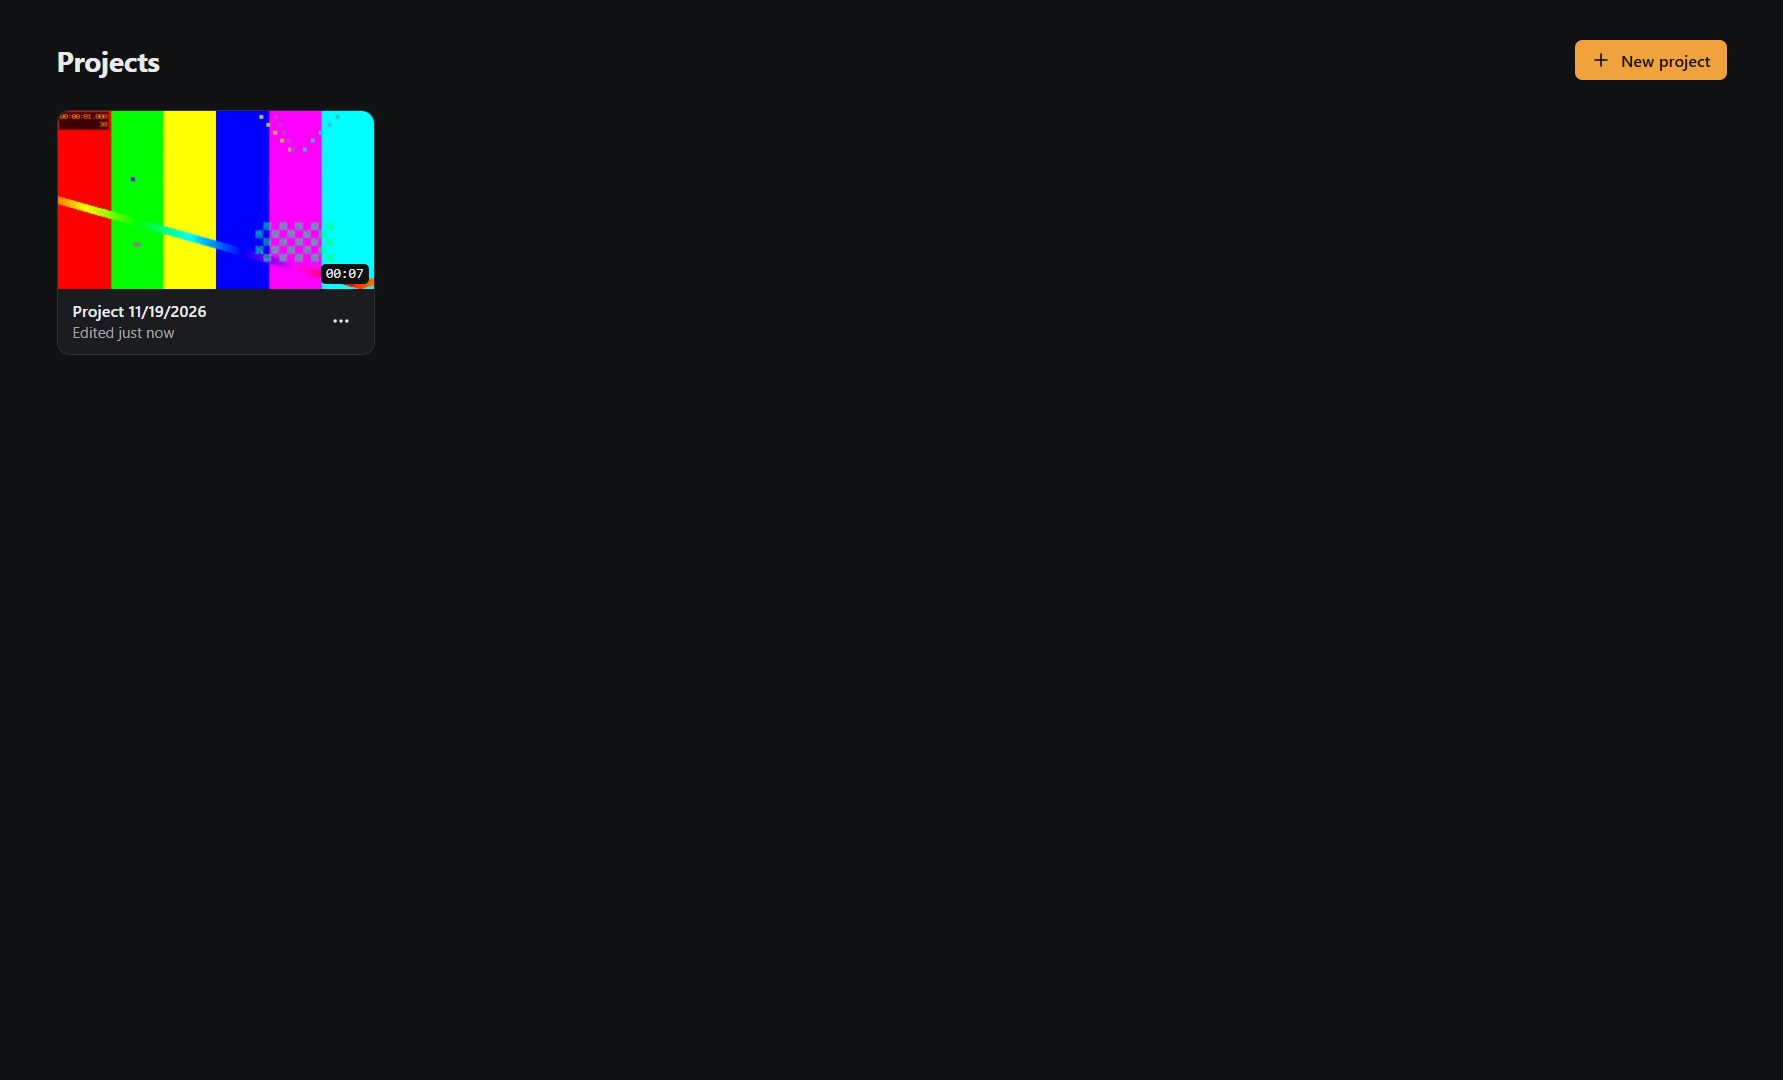
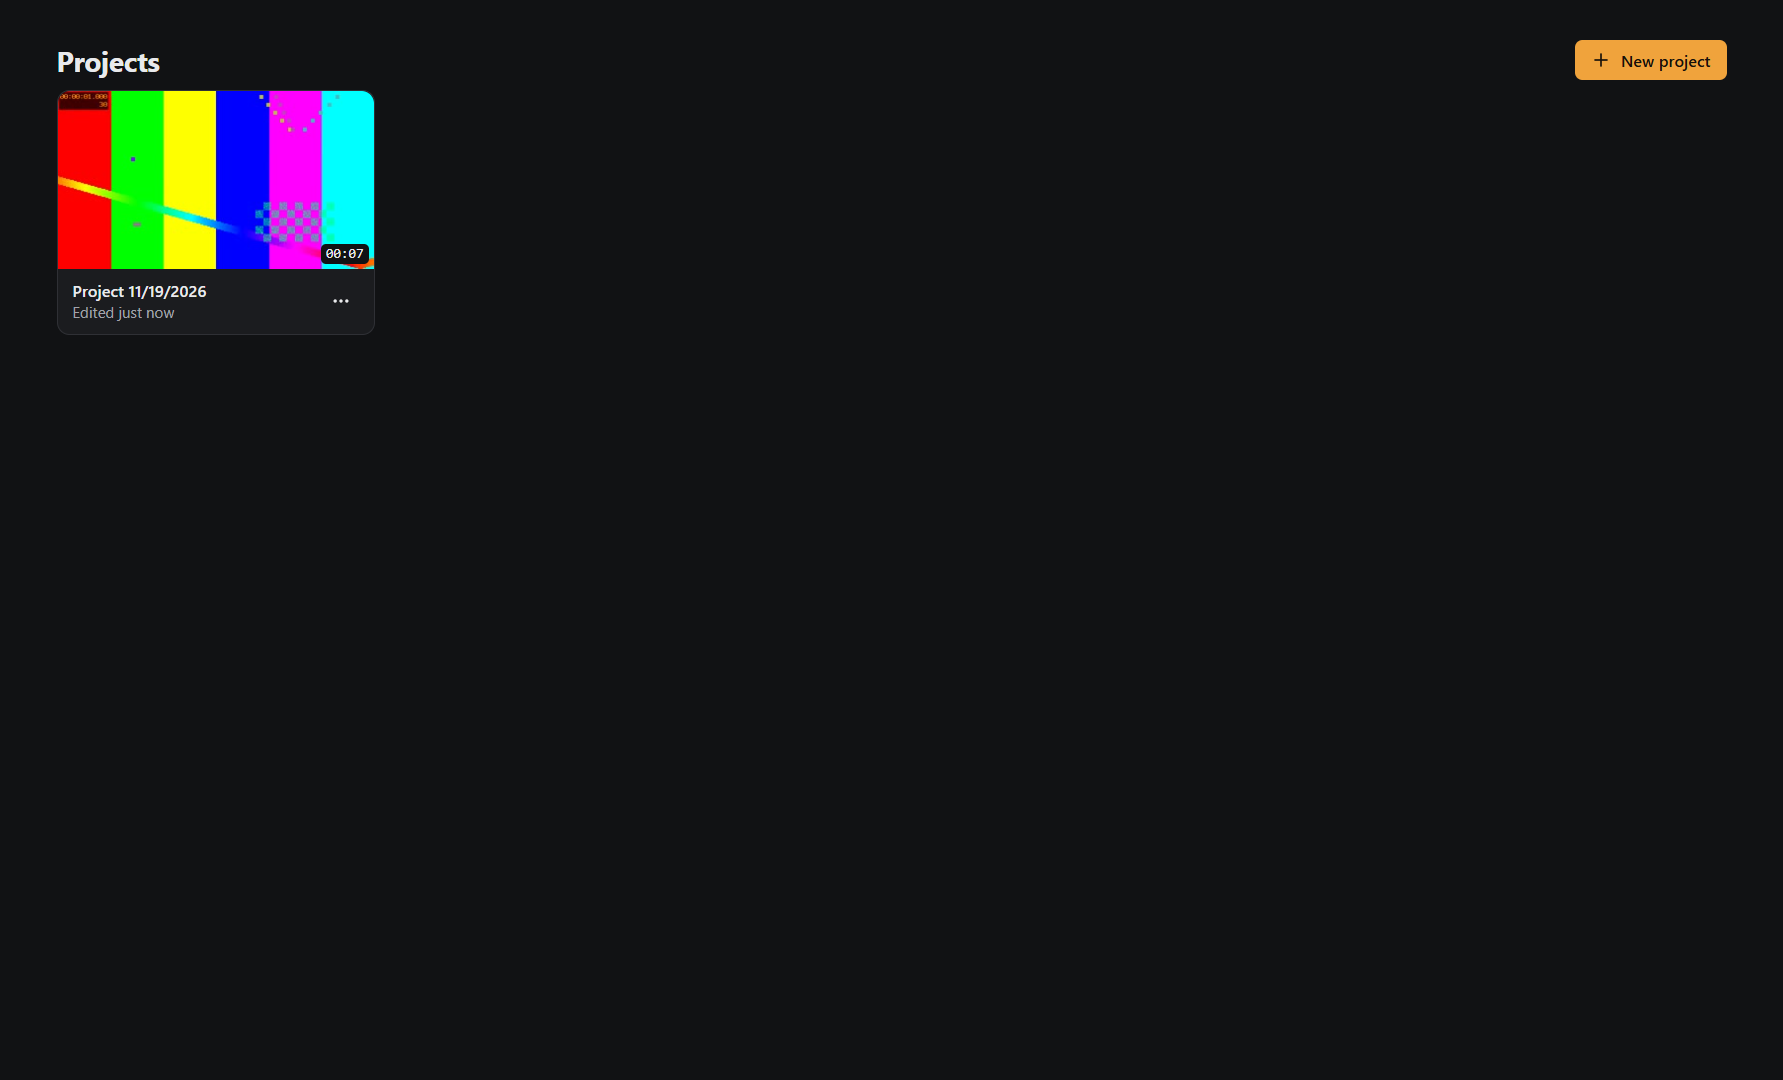
deploy(web): GitHub Pages workflow

Changed region(s): [[0.0308, 0.1528, 0.2159, 0.3361], [0.0308, 0.0611, 0.2159, 0.1528]]

diff --git a/replica/web/launch-plan.md b/replica/web/launch-plan.md
@@ -1,0 +1,18 @@
+# Launch plan: Reelwright web (internal tool)
+
+| step | status | why |
+| --- | --- | --- |
+| landing page | skipped | the app opens straight to Projects; nobody to market to |
+| pricing / Stripe | skipped | free, single user |
+| store listing / `listing.py` | skipped | not in any store; installable as a web page |
+| Product Hunt / HN | skipped | internal |
+
+## What "launch" means here
+
+1. Host `dist-web/` somewhere you can open (see deploy.md), or run it locally with `npm run web:preview`.
+2. Open it in Chrome or Edge on the computer that edits videos and cut one real video end to end.
+3. Note anything slow (first import loads the ~32 MB engine; long exports render in the tab) in `replica/web/bugs.md`.
+
+## If it ever goes public
+
+Same as desktop (../launch/launch-plan.md), plus: link the source to meet ffmpeg.wasm's GPL, and add the hosting security headers from backend.md.
